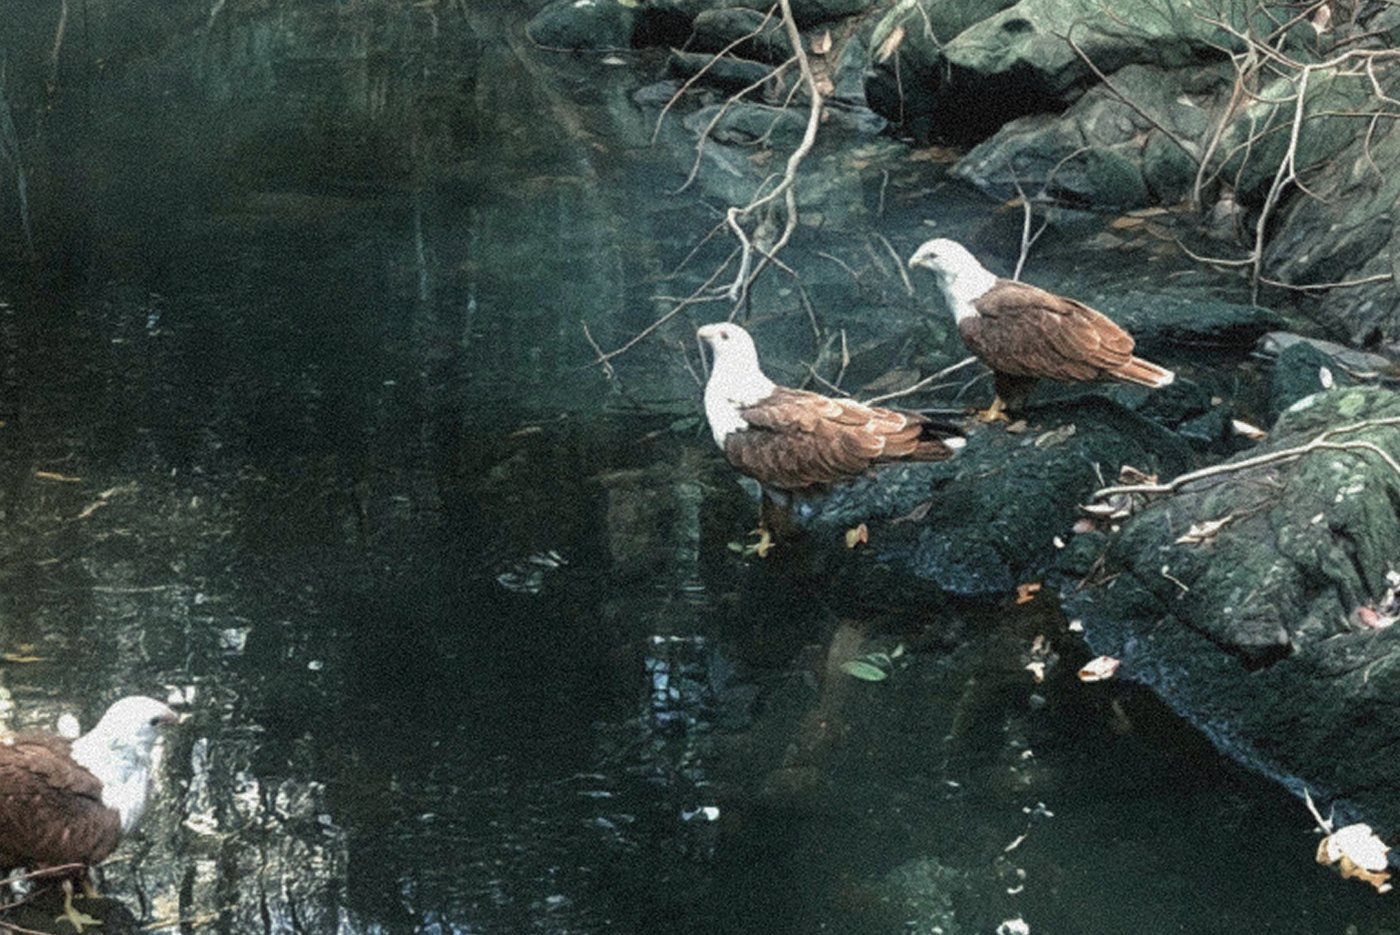
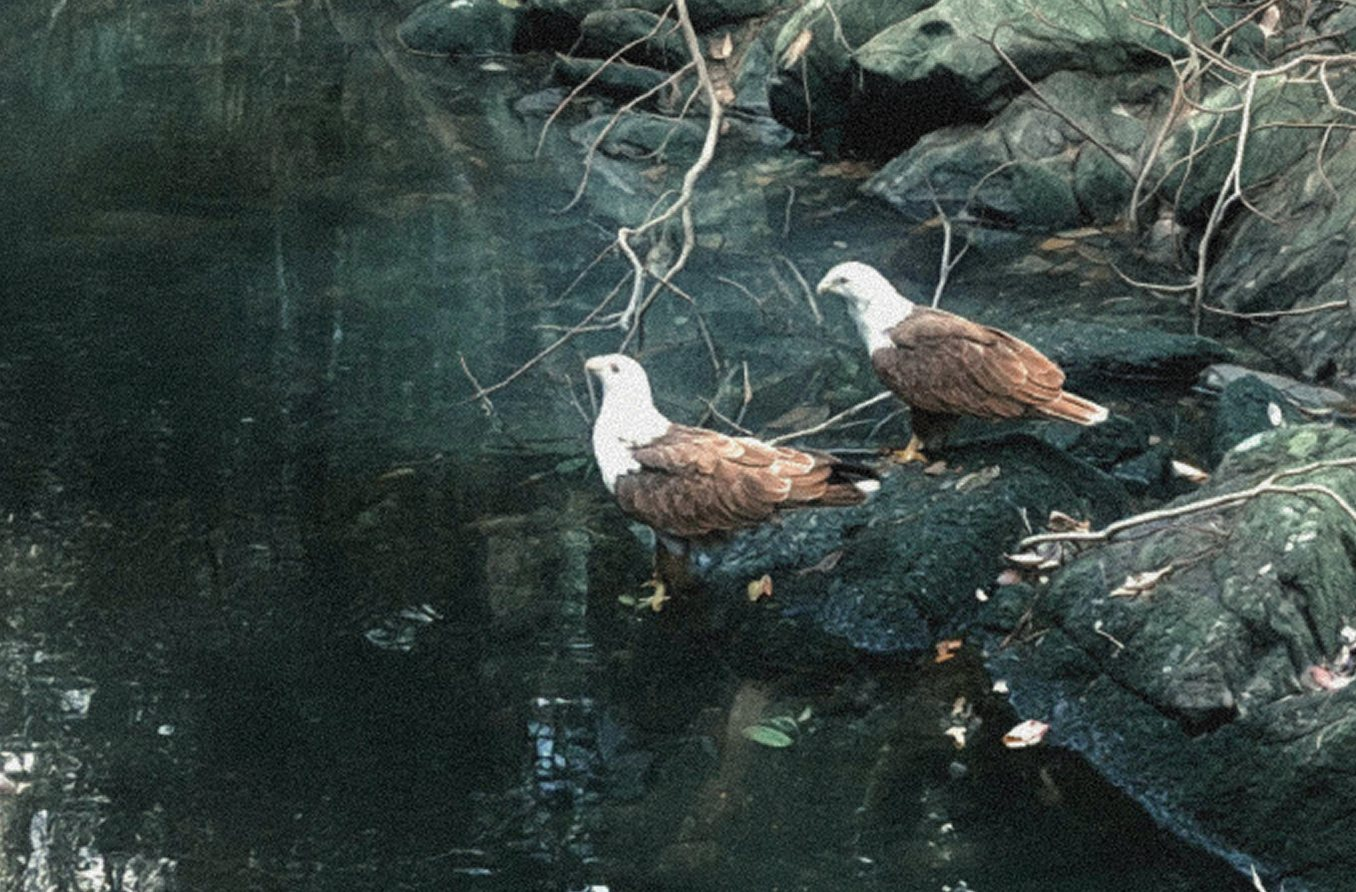
New cover for 05; smaller dates on the calendar cards

diff --git a/index.html b/index.html
@@ -493,7 +493,7 @@
      a photograph. SAT / SUN above are the poster's type. */
   .sc{color:#fff}
   .sc>span{position:absolute;font-weight:400;letter-spacing:-.02em}
-  .sc-d{left:3cqw;top:2cqw;font-size:8.6cqw;line-height:1;letter-spacing:-.04em}
+  .sc-d{left:3cqw;top:2cqw;font-size:6.9cqw;line-height:1;letter-spacing:-.04em}
   .sc-w{right:3cqw;top:2.6cqw;width:56%;text-align:right;font-size:5.6cqw;line-height:1.05}
   .sc-w small{display:block;font-size:.8em;line-height:1.05}
   .sc-t{left:3cqw;right:3cqw;bottom:3cqw;font-size:6.9cqw;line-height:1}
@@ -900,7 +900,7 @@
 <svg data-cx="27.611" class="spine anim" viewBox="0 0 56.000 276.8" xmlns="http://www.w3.org/2000/svg" aria-label="spine"><g class="glyphs"></g></svg>
 <svg data-cx="27.611" class="spine pics" viewBox="0 0 56.000 276.8" xmlns="http://www.w3.org/2000/svg" aria-label="spine"><g class="pic" data-seg="0" clip-path="url(#segclip-0)"><rect x="8" y="3.2" width="37" height="36.8" fill="#822D00"/><image href="images/web/01.jpg" x="8" y="3.2" width="37" height="36.8" preserveAspectRatio="xMidYMid slice"/></g><g class="pic" data-seg="1" clip-path="url(#segclip-1)"><rect x="9" y="40" width="37" height="33.6" fill="#F38530"/><image href="images/web/02.jpg" x="9" y="40" width="37" height="33.6" preserveAspectRatio="xMidYMid slice"/></g><g class="pic" data-seg="2" clip-path="url(#segclip-2)"><rect x="11" y="73.6" width="33" height="36.8" fill="#FDF48E"/><image href="images/web/03.jpg" x="11" y="73.6" width="33" height="36.8" preserveAspectRatio="xMidYMid slice"/></g><g class="pic" data-seg="3" clip-path="url(#segclip-3)"><rect x="11" y="110.4" width="32" height="38.4" fill="#D4F724"/><image href="images/web/04.jpg" x="11" y="110.4" width="32" height="38.4" preserveAspectRatio="xMidYMid slice"/></g><g class="pic" data-seg="4" clip-path="url(#segclip-4)"><rect x="9" y="148.8" width="38" height="35.2" fill="#822D00"/><image href="images/web/05.jpg" x="9" y="148.8" width="38" height="35.2" preserveAspectRatio="xMidYMid slice"/></g><g class="pic" data-seg="5" clip-path="url(#segclip-5)"><rect x="5" y="184" width="44" height="32" fill="#F38530"/><image href="images/web/06.jpg" x="5" y="184" width="44" height="32" preserveAspectRatio="xMidYMid slice"/></g><g class="pic" data-seg="6" clip-path="url(#segclip-6)"><rect x="2" y="216" width="52" height="24" fill="#FDF48E"/><image href="images/web/07.jpg" x="2" y="216" width="52" height="24" preserveAspectRatio="xMidYMid slice"/></g><g class="pic" data-seg="7" clip-path="url(#segclip-7)"><rect x="5" y="240" width="46" height="33.6" fill="#D4F724"/><image href="images/web/08.jpg" x="5" y="240" width="46" height="33.6" preserveAspectRatio="xMidYMid slice"/></g></svg>
 
-<section class="sched" aria-label="Calendar view"><div class="sched-head" aria-hidden="true"><div class="t t-schedh"><span class="slab" aria-hidden="true">SAT</span><span class="bloom" aria-hidden="true">SAT</span><span class="tight" aria-hidden="true">SAT</span><span class="ink">SAT</span><span class="core" aria-hidden="true">SAT</span></div><div class="t t-schedh"><span class="slab" aria-hidden="true">SUN</span><span class="bloom" aria-hidden="true">SUN</span><span class="tight" aria-hidden="true">SUN</span><span class="ink">SUN</span><span class="core" aria-hidden="true">SUN</span></div></div><div class="sched-grid"><button class="sd sc" type="button" data-lec="0"><img src="images/lectures/web/calendar-01.jpg" width="1400" height="961" alt="" loading="lazy" decoding="async" class="sc-img"><span class="sc-d">10.10</span><span class="sc-w">Victoria Soyan Peemot</span><span class="sc-t">Horses and Songs: Multispecies Rhythm and Voice in Inner Asia</span></button><button class="sd sc" type="button" data-lec="1"><img src="images/lectures/web/calendar-02.jpg" width="1400" height="961" alt="" loading="lazy" decoding="async" class="sc-img"><span class="sc-d">10.11</span><span class="sc-w">Wantanee Siripattananuntakul</span><span class="sc-t">If There’s No Reply, Is That Silence Still Love?</span></button><button class="sd sc" type="button" data-lec="2"><img src="images/lectures/web/calendar-03.jpg" width="1388" height="1018" alt="" loading="lazy" decoding="async" class="sc-img"><span class="sc-d">10.17</span><span class="sc-w">Terezie Štindlová</span><span class="sc-t">Do We Need Zoos?</span></button><div class="sd"></div><button class="sd sc" type="button" data-lec="3"><img src="images/lectures/web/calendar-04.jpg" width="1400" height="1002" alt="" loading="lazy" decoding="async" class="sc-img"><span class="sc-d">10.24</span><span class="sc-w">Boria Sax <small>(Guest Moderator: Ruoyi Shi)</small></span><span class="sc-t">Stories, Poetry, and Birdsong</span></button><button class="sd sc" type="button" data-lec="4"><img src="images/lectures/web/calendar-05.jpg" width="1400" height="935" alt="" loading="lazy" decoding="async" class="sc-img"><span class="sc-d">10.25</span><span class="sc-w">Robert Zhao Renhui</span><span class="sc-t">Seeing Forest: Encounters, Evidence and Ways of Knowing</span></button><button class="sd sc" type="button" data-lec="5"><img src="images/lectures/web/calendar-06.jpg" width="1400" height="994" alt="" loading="lazy" decoding="async" class="sc-img"><span class="sc-d">10.31</span><span class="sc-w">Oscar Salguero</span><span class="sc-t">The Rhizomatic Archive: Interspecies Library</span></button><div class="sd"></div><button class="sd sc" type="button" data-lec="6"><img src="images/lectures/web/calendar-07.jpg" width="1400" height="972" alt="" loading="lazy" decoding="async" class="sc-img"><span class="sc-d">11.07</span><span class="sc-w">Hsu Che-Yu &amp; Chen Wan-Yin</span><span class="sc-t">Specimen of Suffering</span></button><button class="sd sc" type="button" data-lec="7"><img src="images/lectures/web/calendar-08.jpg" width="1400" height="1017" alt="" loading="lazy" decoding="async" class="sc-img"><span class="sc-d">11.08</span><span class="sc-w">Sha Shuang</span><span class="sc-t">Writing a Cow: From Surveillance Data to Fiction</span></button></div></section>
+<section class="sched" aria-label="Calendar view"><div class="sched-head" aria-hidden="true"><div class="t t-schedh"><span class="slab" aria-hidden="true">SAT</span><span class="bloom" aria-hidden="true">SAT</span><span class="tight" aria-hidden="true">SAT</span><span class="ink">SAT</span><span class="core" aria-hidden="true">SAT</span></div><div class="t t-schedh"><span class="slab" aria-hidden="true">SUN</span><span class="bloom" aria-hidden="true">SUN</span><span class="tight" aria-hidden="true">SUN</span><span class="ink">SUN</span><span class="core" aria-hidden="true">SUN</span></div></div><div class="sched-grid"><button class="sd sc" type="button" data-lec="0"><img src="images/lectures/web/calendar-01.jpg" width="1400" height="961" alt="" loading="lazy" decoding="async" class="sc-img"><span class="sc-d">10.10</span><span class="sc-w">Victoria Soyan Peemot</span><span class="sc-t">Horses and Songs: Multispecies Rhythm and Voice in Inner Asia</span></button><button class="sd sc" type="button" data-lec="1"><img src="images/lectures/web/calendar-02.jpg" width="1400" height="961" alt="" loading="lazy" decoding="async" class="sc-img"><span class="sc-d">10.11</span><span class="sc-w">Wantanee Siripattananuntakul</span><span class="sc-t">If There’s No Reply, Is That Silence Still Love?</span></button><button class="sd sc" type="button" data-lec="2"><img src="images/lectures/web/calendar-03.jpg" width="1388" height="1018" alt="" loading="lazy" decoding="async" class="sc-img"><span class="sc-d">10.17</span><span class="sc-w">Terezie Štindlová</span><span class="sc-t">Do We Need Zoos?</span></button><div class="sd"></div><button class="sd sc" type="button" data-lec="3"><img src="images/lectures/web/calendar-04.jpg" width="1400" height="1002" alt="" loading="lazy" decoding="async" class="sc-img"><span class="sc-d">10.24</span><span class="sc-w">Boria Sax <small>(Guest Moderator: Ruoyi Shi)</small></span><span class="sc-t">Stories, Poetry, and Birdsong</span></button><button class="sd sc" type="button" data-lec="4"><img src="images/lectures/web/calendar-05.jpg" width="1356" height="892" alt="" loading="lazy" decoding="async" class="sc-img"><span class="sc-d">10.25</span><span class="sc-w">Robert Zhao Renhui</span><span class="sc-t">Seeing Forest: Encounters, Evidence and Ways of Knowing</span></button><button class="sd sc" type="button" data-lec="5"><img src="images/lectures/web/calendar-06.jpg" width="1400" height="994" alt="" loading="lazy" decoding="async" class="sc-img"><span class="sc-d">10.31</span><span class="sc-w">Oscar Salguero</span><span class="sc-t">The Rhizomatic Archive: Interspecies Library</span></button><div class="sd"></div><button class="sd sc" type="button" data-lec="6"><img src="images/lectures/web/calendar-07.jpg" width="1400" height="972" alt="" loading="lazy" decoding="async" class="sc-img"><span class="sc-d">11.07</span><span class="sc-w">Hsu Che-Yu &amp; Chen Wan-Yin</span><span class="sc-t">Specimen of Suffering</span></button><button class="sd sc" type="button" data-lec="7"><img src="images/lectures/web/calendar-08.jpg" width="1400" height="1017" alt="" loading="lazy" decoding="async" class="sc-img"><span class="sc-d">11.08</span><span class="sc-w">Sha Shuang</span><span class="sc-t">Writing a Cow: From Surveillance Data to Fiction</span></button></div></section>
 
 <div class="lecs">
 <div class="t t-lecno" data-lec="0" style="--nx:0.4931;--ny:0.0775"><p class="slab" aria-hidden="true">01</p><p class="bloom" aria-hidden="true">01</p><p class="tight" aria-hidden="true">01</p><p class="ink">01</p><p class="core" aria-hidden="true">01</p></div>

diff --git a/social-media-poster/poster.html b/social-media-poster/poster.html
@@ -470,7 +470,7 @@
      a photograph. SAT / SUN above are the poster's type. */
   .sc{color:#fff}
   .sc>span{position:absolute;font-weight:400;letter-spacing:-.02em}
-  .sc-d{left:3cqw;top:2cqw;font-size:8.6cqw;line-height:1;letter-spacing:-.04em}
+  .sc-d{left:3cqw;top:2cqw;font-size:6.9cqw;line-height:1;letter-spacing:-.04em}
   .sc-w{right:3cqw;top:2.6cqw;width:56%;text-align:right;font-size:5.6cqw;line-height:1.05}
   .sc-w small{display:block;font-size:.8em;line-height:1.05}
   .sc-t{left:3cqw;right:3cqw;bottom:3cqw;font-size:6.9cqw;line-height:1}
@@ -870,7 +870,7 @@
 <svg data-cx="27.611" class="spine anim" viewBox="0 0 56.000 276.8" xmlns="http://www.w3.org/2000/svg" aria-label="spine"><g class="glyphs"></g></svg>
 <svg data-cx="27.611" class="spine pics" viewBox="0 0 56.000 276.8" xmlns="http://www.w3.org/2000/svg" aria-label="spine"><g class="pic" data-seg="0" clip-path="url(#segclip-0)"><rect x="8" y="3.2" width="37" height="36.8" fill="#822D00"/><image href="images/web/01.jpg" x="8" y="3.2" width="37" height="36.8" preserveAspectRatio="xMidYMid slice"/></g><g class="pic" data-seg="1" clip-path="url(#segclip-1)"><rect x="9" y="40" width="37" height="33.6" fill="#F38530"/><image href="images/web/02.jpg" x="9" y="40" width="37" height="33.6" preserveAspectRatio="xMidYMid slice"/></g><g class="pic" data-seg="2" clip-path="url(#segclip-2)"><rect x="11" y="73.6" width="33" height="36.8" fill="#FDF48E"/><image href="images/web/03.jpg" x="11" y="73.6" width="33" height="36.8" preserveAspectRatio="xMidYMid slice"/></g><g class="pic" data-seg="3" clip-path="url(#segclip-3)"><rect x="11" y="110.4" width="32" height="38.4" fill="#D4F724"/><image href="images/web/04.jpg" x="11" y="110.4" width="32" height="38.4" preserveAspectRatio="xMidYMid slice"/></g><g class="pic" data-seg="4" clip-path="url(#segclip-4)"><rect x="9" y="148.8" width="38" height="35.2" fill="#822D00"/><image href="images/web/05.jpg" x="9" y="148.8" width="38" height="35.2" preserveAspectRatio="xMidYMid slice"/></g><g class="pic" data-seg="5" clip-path="url(#segclip-5)"><rect x="5" y="184" width="44" height="32" fill="#F38530"/><image href="images/web/06.jpg" x="5" y="184" width="44" height="32" preserveAspectRatio="xMidYMid slice"/></g><g class="pic" data-seg="6" clip-path="url(#segclip-6)"><rect x="2" y="216" width="52" height="24" fill="#FDF48E"/><image href="images/web/07.jpg" x="2" y="216" width="52" height="24" preserveAspectRatio="xMidYMid slice"/></g><g class="pic" data-seg="7" clip-path="url(#segclip-7)"><rect x="5" y="240" width="46" height="33.6" fill="#D4F724"/><image href="images/web/08.jpg" x="5" y="240" width="46" height="33.6" preserveAspectRatio="xMidYMid slice"/></g></svg>
 
-<section class="sched" aria-label="Calendar view"><div class="sched-head" aria-hidden="true"><div class="t t-schedh"><span class="slab" aria-hidden="true">SAT</span><span class="bloom" aria-hidden="true">SAT</span><span class="tight" aria-hidden="true">SAT</span><span class="ink">SAT</span><span class="core" aria-hidden="true">SAT</span></div><div class="t t-schedh"><span class="slab" aria-hidden="true">SUN</span><span class="bloom" aria-hidden="true">SUN</span><span class="tight" aria-hidden="true">SUN</span><span class="ink">SUN</span><span class="core" aria-hidden="true">SUN</span></div></div><div class="sched-grid"><button class="sd sc" type="button" data-lec="0"><img src="images/lectures/web/calendar-01.jpg" width="1400" height="961" alt="" loading="lazy" decoding="async" class="sc-img"><span class="sc-d">10.10</span><span class="sc-w">Victoria Soyan Peemot</span><span class="sc-t">Horses and Songs: Multispecies Rhythm and Voice in Inner Asia</span></button><button class="sd sc" type="button" data-lec="1"><img src="images/lectures/web/calendar-02.jpg" width="1400" height="961" alt="" loading="lazy" decoding="async" class="sc-img"><span class="sc-d">10.11</span><span class="sc-w">Wantanee Siripattananuntakul</span><span class="sc-t">If There’s No Reply, Is That Silence Still Love?</span></button><button class="sd sc" type="button" data-lec="2"><img src="images/lectures/web/calendar-03.jpg" width="1388" height="1018" alt="" loading="lazy" decoding="async" class="sc-img"><span class="sc-d">10.17</span><span class="sc-w">Terezie Štindlová</span><span class="sc-t">Do We Need Zoos?</span></button><div class="sd"></div><button class="sd sc" type="button" data-lec="3"><img src="images/lectures/web/calendar-04.jpg" width="1400" height="1002" alt="" loading="lazy" decoding="async" class="sc-img"><span class="sc-d">10.24</span><span class="sc-w">Boria Sax <small>(Guest Moderator: Ruoyi Shi)</small></span><span class="sc-t">Stories, Poetry, and Birdsong</span></button><button class="sd sc" type="button" data-lec="4"><img src="images/lectures/web/calendar-05.jpg" width="1400" height="935" alt="" loading="lazy" decoding="async" class="sc-img"><span class="sc-d">10.25</span><span class="sc-w">Robert Zhao Renhui</span><span class="sc-t">Seeing Forest: Encounters, Evidence and Ways of Knowing</span></button><button class="sd sc" type="button" data-lec="5"><img src="images/lectures/web/calendar-06.jpg" width="1400" height="994" alt="" loading="lazy" decoding="async" class="sc-img"><span class="sc-d">10.31</span><span class="sc-w">Oscar Salguero</span><span class="sc-t">The Rhizomatic Archive: Interspecies Library</span></button><div class="sd"></div><button class="sd sc" type="button" data-lec="6"><img src="images/lectures/web/calendar-07.jpg" width="1400" height="972" alt="" loading="lazy" decoding="async" class="sc-img"><span class="sc-d">11.07</span><span class="sc-w">Hsu Che-Yu &amp; Chen Wan-Yin</span><span class="sc-t">Specimen of Suffering</span></button><button class="sd sc" type="button" data-lec="7"><img src="images/lectures/web/calendar-08.jpg" width="1400" height="1017" alt="" loading="lazy" decoding="async" class="sc-img"><span class="sc-d">11.08</span><span class="sc-w">Sha Shuang</span><span class="sc-t">Writing a Cow: From Surveillance Data to Fiction</span></button></div></section>
+<section class="sched" aria-label="Calendar view"><div class="sched-head" aria-hidden="true"><div class="t t-schedh"><span class="slab" aria-hidden="true">SAT</span><span class="bloom" aria-hidden="true">SAT</span><span class="tight" aria-hidden="true">SAT</span><span class="ink">SAT</span><span class="core" aria-hidden="true">SAT</span></div><div class="t t-schedh"><span class="slab" aria-hidden="true">SUN</span><span class="bloom" aria-hidden="true">SUN</span><span class="tight" aria-hidden="true">SUN</span><span class="ink">SUN</span><span class="core" aria-hidden="true">SUN</span></div></div><div class="sched-grid"><button class="sd sc" type="button" data-lec="0"><img src="images/lectures/web/calendar-01.jpg" width="1400" height="961" alt="" loading="lazy" decoding="async" class="sc-img"><span class="sc-d">10.10</span><span class="sc-w">Victoria Soyan Peemot</span><span class="sc-t">Horses and Songs: Multispecies Rhythm and Voice in Inner Asia</span></button><button class="sd sc" type="button" data-lec="1"><img src="images/lectures/web/calendar-02.jpg" width="1400" height="961" alt="" loading="lazy" decoding="async" class="sc-img"><span class="sc-d">10.11</span><span class="sc-w">Wantanee Siripattananuntakul</span><span class="sc-t">If There’s No Reply, Is That Silence Still Love?</span></button><button class="sd sc" type="button" data-lec="2"><img src="images/lectures/web/calendar-03.jpg" width="1388" height="1018" alt="" loading="lazy" decoding="async" class="sc-img"><span class="sc-d">10.17</span><span class="sc-w">Terezie Štindlová</span><span class="sc-t">Do We Need Zoos?</span></button><div class="sd"></div><button class="sd sc" type="button" data-lec="3"><img src="images/lectures/web/calendar-04.jpg" width="1400" height="1002" alt="" loading="lazy" decoding="async" class="sc-img"><span class="sc-d">10.24</span><span class="sc-w">Boria Sax <small>(Guest Moderator: Ruoyi Shi)</small></span><span class="sc-t">Stories, Poetry, and Birdsong</span></button><button class="sd sc" type="button" data-lec="4"><img src="images/lectures/web/calendar-05.jpg" width="1356" height="892" alt="" loading="lazy" decoding="async" class="sc-img"><span class="sc-d">10.25</span><span class="sc-w">Robert Zhao Renhui</span><span class="sc-t">Seeing Forest: Encounters, Evidence and Ways of Knowing</span></button><button class="sd sc" type="button" data-lec="5"><img src="images/lectures/web/calendar-06.jpg" width="1400" height="994" alt="" loading="lazy" decoding="async" class="sc-img"><span class="sc-d">10.31</span><span class="sc-w">Oscar Salguero</span><span class="sc-t">The Rhizomatic Archive: Interspecies Library</span></button><div class="sd"></div><button class="sd sc" type="button" data-lec="6"><img src="images/lectures/web/calendar-07.jpg" width="1400" height="972" alt="" loading="lazy" decoding="async" class="sc-img"><span class="sc-d">11.07</span><span class="sc-w">Hsu Che-Yu &amp; Chen Wan-Yin</span><span class="sc-t">Specimen of Suffering</span></button><button class="sd sc" type="button" data-lec="7"><img src="images/lectures/web/calendar-08.jpg" width="1400" height="1017" alt="" loading="lazy" decoding="async" class="sc-img"><span class="sc-d">11.08</span><span class="sc-w">Sha Shuang</span><span class="sc-t">Writing a Cow: From Surveillance Data to Fiction</span></button></div></section>
 
 <div class="lecs">
 <div class="t t-lecno" data-lec="0" style="--nx:0.4931;--ny:0.0775"><p class="slab" aria-hidden="true">01</p><p class="bloom" aria-hidden="true">01</p><p class="tight" aria-hidden="true">01</p><p class="ink">01</p><p class="core" aria-hidden="true">01</p></div>

diff --git a/tools/build.py b/tools/build.py
@@ -2273,7 +2273,7 @@ SCHED_CSS = '''
      a photograph. SAT / SUN above are the poster's type. */
   .sc{color:#fff}
   .sc>span{position:absolute;font-weight:400;letter-spacing:-.02em}
-  .sc-d{left:3cqw;top:2cqw;font-size:8.6cqw;line-height:1;letter-spacing:-.04em}
+  .sc-d{left:3cqw;top:2cqw;font-size:6.9cqw;line-height:1;letter-spacing:-.04em}
   .sc-w{right:3cqw;top:2.6cqw;width:56%;text-align:right;font-size:5.6cqw;line-height:1.05}
   .sc-w small{display:block;font-size:.8em;line-height:1.05}
   .sc-t{left:3cqw;right:3cqw;bottom:3cqw;font-size:6.9cqw;line-height:1}
